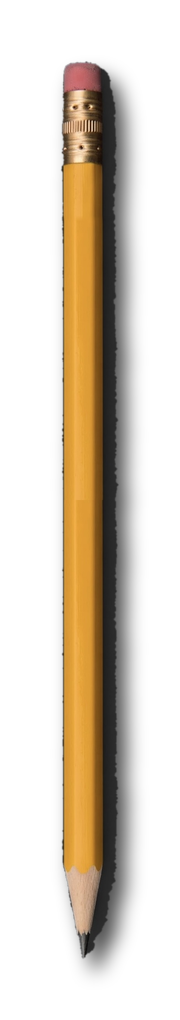
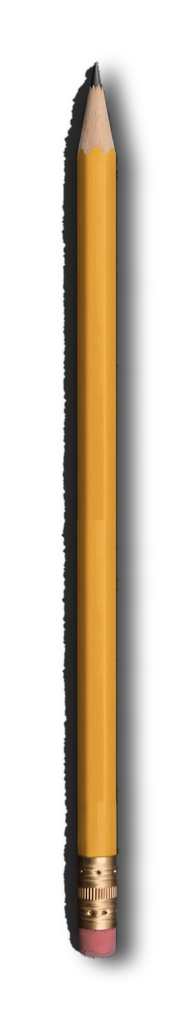
The pencil by Things to share: straight, point up, shadow to the right
Claude-Session: https://claude.ai/code/session_01NDsvQ4w6b4M39K7iEhCswz

diff --git a/src/screens/Shelf.js b/src/screens/Shelf.js
@@ -452,7 +452,7 @@ export function Library({ mode = 'library', toBooks, toWip, onReadingOptions, on
               {/* a yellow pencil beside the folder, a little tilted, with a soft shadow (Jörg, 29 Oct 2026) */}
               {(() => { const ph = colW * 0.98, pw = ph * 180 / 1020; return (
                 <View pointerEvents="none" style={{ width: tileWidth(winW), height: colW }}>
-                  <Image source={PENCIL_YELLOW} resizeMode="contain" style={{ position: 'absolute', left: colW * 0.18, top: (colW - ph) / 2, width: pw, height: ph, transform: [{ rotate: '-14deg' }] }} />
+                  <Image source={PENCIL_YELLOW} resizeMode="contain" style={{ position: 'absolute', left: colW * 0.18, top: (colW - ph) / 2, width: pw, height: ph }} />{/* straight, the point up, its shadow to the right (Jörg, 29 Oct 2026) */
                 </View>
               ); })()}
               {/* the corkboard: always at the very bottom, as wide as two books */}
